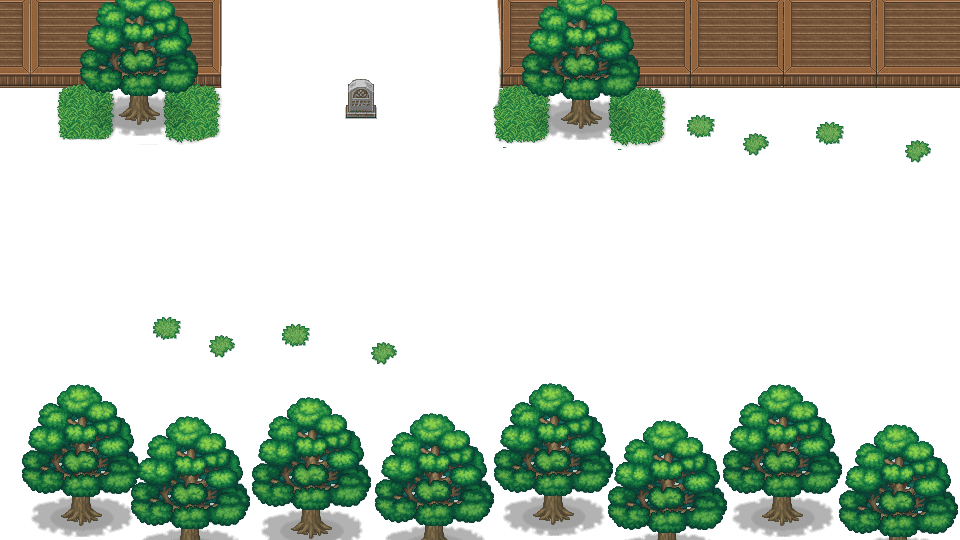
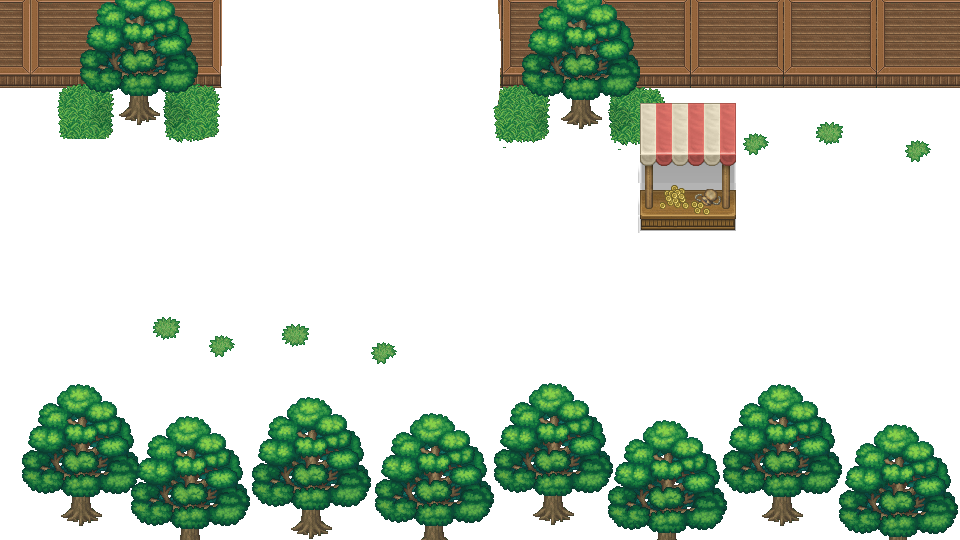
item sell shop OPEN

diff --git a/field.js b/field.js
@@ -20,6 +20,7 @@ var encount_down=0,encount_down_cnt=0;
 var nowShopData,eventShopSelectNum=0,showmoney=0,eventShopScrollNum=0,eventRecipeData=[];
 var checkSkillConflict=[],encountEnemyNum=0,inMsgBattleFlg=0,searchablelg=0;
 var creatingFieldFlg=0, itemRedrawFlg=1;
+var nowSalableItems=[],sellSelectNum=0,sellScrollNum=0,sellChildWindowAni=0,sellNum=0;
 const charamap=[3,1,0,2];//Imageオブジェクトのマッピング
 function getFieldCharaX(chara,dir,ani){return ((chara % 5)*32*3+ani*32+2);}
 function getFieldCharaY(chara,dir,ani){return (Math.floor(chara/5)*32*4+300+32*charamap[dir]+2);}
@@ -331,6 +332,14 @@ function setMaterials(){
         field2d.drawImage(itemMenuImg[nowMaterialData[myposworld][i][2]],nowMaterialData[myposworld][i][0],nowMaterialData[myposworld][i][1],material_size,material_size);
     }
 }
+function setSalableItems(){
+    nowSalableItems=[];
+    for(var i = 0;i<items.length;i++){
+        if(itemdata[items[i][0]][itemdata[items[i][0]].length-1] > 0){//売却可能なら
+            nowSalableItems.push(items[i]);
+        }
+    }
+}
 function encount_check(){//敵との遭遇率encount=6*((200−運)/200)
     if (mypic.length==0 || (debugMode && debugMode!=5) || warpAni || eventWindowAni) return 0;
     var encountRate = (6*((200 - mypicstock[mypic[0]][9],0,100,100),0,100/200));
@@ -586,6 +595,22 @@ function trigEvent(trigEventnum,trigEventObj){
             eventMessageWindow=1;
             eventMessageWindowMsg="レシピを持っていない！";
         }
+    } else if(trigEventnum==8 && !menuSelectFlg){ //売却のお店
+        zkeySE.play(); 
+        setSalableItems(items); //売却可能なアイテムをセット
+        if(!nowSalableItems.length){
+            eventWindowAni=0;
+            eventMessageWindow=1;
+            eventMessageWindowMsg="売却できるアイテムを持っていない！";
+        } else{
+            eventWindowKind=8;
+            eventWindowAni++;    
+            sellSelectNum=0;
+            sellScrollNum=0;
+            sellNum=1;
+            sellChildWindowAni=0;
+            showmoney=money;
+        }
     }
     menuSelectFlg=1;
 }
@@ -617,11 +642,13 @@ function fieldMain() {
     for(var i = 0;i < eventobj[myposworld].length;i++){
         if(eventobj[myposworld][i][4] == 1 || eventobj[myposworld][i][4] == 2||eventobj[myposworld][i][4] == 7){//マイピク整理等
             if(eventobj[myposworld][i][5]!=undefined) ctx2d.drawImage(arrowImgs[1],eventobj[myposworld][i][5],eventobj[myposworld][i][6]+((Math.floor(globalTime/8)%8<2) && 4*Math.abs(Math.sin(Math.PI*2*globalTime/32))),22,22);
-        } else if(eventobj[myposworld][i][4] == 3){//お店
+        } else if(eventobj[myposworld][i][4] == 3 || eventobj[myposworld][i][4] == 8){//お店
             if(eventobj[myposworld][i][6]!=undefined) ctx2d.drawImage(arrowImgs[1],eventobj[myposworld][i][6],eventobj[myposworld][i][7]+((Math.floor(globalTime/8)%8<2) && 4*Math.abs(Math.sin(Math.PI*2*globalTime/32))),22,22);
         } else if(eventobj[myposworld][i][4] == 6){//メッセージ
             if(eventobj[myposworld][i][8]!=undefined && !countItem(eventobj[myposworld][i][6])) ctx2d.drawImage(arrowImgs[1],eventobj[myposworld][i][8],eventobj[myposworld][i][9]+((Math.floor(globalTime/8)%8<2) && 4*Math.abs(Math.sin(Math.PI*2*globalTime/32))),22,22);
-        }
+        }else if(eventobj[myposworld][i][4] == 7){//売却お店
+            if(eventobj[myposworld][i][6]!=undefined) ctx2d.drawImage(arrowImgs[1],eventobj[myposworld][i][6],eventobj[myposworld][i][7]+((Math.floor(globalTime/8)%8<2) && 4*Math.abs(Math.sin(Math.PI*2*globalTime/32))),22,22);
+        } 
     }
     
     //ctx2d.drawImage(characanvas,pre_charasize*Math.floor(walkanimation/15),pre_charasize*walkdir,pre_charasize,pre_charasize,myposx,myposy,charasize,charasize); //キャラクターの描画
@@ -982,7 +1009,7 @@ function fieldMain() {
             } else if(eventProcreateStep==3){ //生まれた！
                 ctx2d.font="16pt " + mainfontName;
                 ctx2d.fillStyle="rgba(255,255,255,"+(1-Math.abs(eventWindowAni-menuWindowAniSpeed)/menuWindowAniSpeed)*Math.min(1,eventEggAni/20)*Math.min(1,eventEggAni/20)*(Math.sin(globalTime/10)*0.3+0.7)+")";
-                ctx2d.fillText((drawMypicTempName + "がうまれた！　"+procreateMsg).substr(0,eventEggAni/3),width/2-225,height/2-125);
+                ctx2d.fillText((drawMypicTempName + "がうまれた！"+procreateMsg).substr(0,eventEggAni/3),width/2-225,height/2-125);
                 ctx2d.fillStyle="rgba(255,255,255,"+(1-Math.abs(eventWindowAni-menuWindowAniSpeed)/menuWindowAniSpeed)*Math.min(1,eventEggAni/20)*Math.min(1,eventEggAni/20)+")";
                 ctx2d.font="11pt " + mainfontName;
                 ctx2d.fillText("さいだいHP: " + mypicstock[mypicstock.length-1][3],width/2-230,height/2+113);
@@ -1158,6 +1185,103 @@ function fieldMain() {
                 menuSelectFlg=1;
                 xkeySE.play();
             }
+        }else if(eventWindowKind==8){ //売り払う
+            ctx2d.fillStyle="rgba(0,0,0," +(1- Math.abs(eventWindowAni-menuWindowAniSpeed)/menuWindowAniSpeed)*0.8 + ")";
+            ctx2d.fillRect(width/2-300,height/2-155,600,300);
+            ctx2d.fillStyle="rgba(255,255,255," +(1- Math.abs(eventWindowAni-menuWindowAniSpeed)/menuWindowAniSpeed) + ")";
+            ctx2d.font="18pt " + mainfontName;
+            ctx2d.fillText("ばいきゃく" , width/2-300+15,height/2-150+30);
+            ctx2d.font="12pt " + mainfontName;
+            for(var i = 0;i < Math.min(10,nowSalableItems.length-sellScrollNum);i++){
+                ctx2d.fillStyle="rgba(105,105,105," +(1- Math.abs(eventWindowAni-menuWindowAniSpeed)/menuWindowAniSpeed) + ")";
+                if(i+sellScrollNum== sellSelectNum) ctx2d.fillStyle="rgba(255,255,255," +(0.3*Math.sin(globalTime/8)+0.7*(1- Math.abs(eventWindowAni-menuWindowAniSpeed)/menuWindowAniSpeed)) + ")";
+                ctx2d.drawImage(itemMenuImg[nowSalableItems[i+sellScrollNum][0]],width/2-300+40,height/2-90-10+i*20,15,15);
+                ctx2d.fillText(itemdata[nowSalableItems[i+sellScrollNum][0]][0] , width/2-300+60,height/2-90+i*20);
+                ctx2d.fillText("×" , width/2-300+280,height/2-90+i*20);
+                ctx2d.fillText(nowSalableItems[i+sellScrollNum][1] , width/2-300+320,height/2-90+i*20);
+                ctx2d.fillText(itemdata[nowSalableItems[i+sellScrollNum][0]][5] , width/2-300+450,height/2-90+i*20);
+                ctx2d.fillText("(" , width/2-300+400,height/2-90+i*20);
+                ctx2d.fillText(currencyName + " )" , width/2-300+500,height/2-90+i*20);
+            }
+            ctx2d.fillStyle="rgba(255,255,255," +(1- Math.abs(eventWindowAni-menuWindowAniSpeed)/menuWindowAniSpeed) + ")";
+            ctx2d.font="10pt " + mainfontName;
+            ctx2d.fillText(itemdata[nowSalableItems[sellSelectNum][0]][3].substr(0,26) ,width/2-300+40,height/2-90+10.5*20-5);
+            ctx2d.fillText(itemdata[nowSalableItems[sellSelectNum][0]][3].substr(26,26) ,width/2-300+40,height/2-90+11.5*20-10);
+            ctx2d.fillText("おかね",width/2+100,height/2-90+10.5*20-5);
+            ctx2d.font="12pt " + mainfontName;
+            ctx2d.fillRect(width/2+90,height/2-90+10.5*20-15,1,30);
+            ctx2d.fillText(showmoney + currencyName ,width/2+120,height/2-90+11.5*20-8);
+            if(sellChildWindowAni){ //売却ウィンドウ表示時
+                ctx2d.fillStyle="rgba(0,0,0," +(1- Math.abs(sellChildWindowAni-menuWindowAniSpeed)/menuWindowAniSpeed)*0.8 + ")";
+                ctx2d.fillRect(width/2-150,height/2-50,300,100);
+                ctx2d.font="14pt " + mainfontName;
+                ctx2d.fillStyle="rgba(255,255,255," +(1- Math.abs(sellChildWindowAni-menuWindowAniSpeed)/menuWindowAniSpeed) + ")";
+                ctx2d.fillText("いくつ売る？",width/2-135,height/2-25);
+                ctx2d.font="12pt " + mainfontName;
+                ctx2d.fillText(itemdata[nowSalableItems[sellSelectNum][0]][0] ,width/2-45,height/2+5);
+                ctx2d.drawImage(itemMenuImg[nowSalableItems[sellSelectNum][0]],width/2-80,height/2-13,25,25);
+                ctx2d.fillText("所持数："+nowSalableItems[sellSelectNum][1] ,width/2+40,height/2-25);
+                ctx2d.fillText(itemdata[nowSalableItems[sellSelectNum][0]][5]*sellNum ,width/2-45,height/2+30);    
+                ctx2d.fillText(currencyName ,width/2+10,height/2+30);
+                ctx2d.font="8pt " + mainfontName;
+                ctx2d.fillStyle="rgba(255,255,255," +(1- Math.abs(sellChildWindowAni-menuWindowAniSpeed)/menuWindowAniSpeed) + ")";
+                if(sellNum==nowSalableItems[sellSelectNum][1]) ctx2d.fillStyle="rgba(105,105,105," +(1- Math.abs(sellChildWindowAni-menuWindowAniSpeed)/menuWindowAniSpeed) + ")"; 
+                ctx2d.fillText("∧" ,width/2-120+5,height/2+0);
+                ctx2d.fillStyle="rgba(255,255,255," +(1- Math.abs(sellChildWindowAni-menuWindowAniSpeed)/menuWindowAniSpeed) + ")";
+                if(sellNum==1) ctx2d.fillStyle="rgba(105,105,105," +(1- Math.abs(sellChildWindowAni-menuWindowAniSpeed)/menuWindowAniSpeed) + ")"; 
+                ctx2d.fillText("∨" ,width/2-120+5,height/2+40);
+                ctx2d.font="16pt " + mainfontName;
+                ctx2d.fillStyle="rgba(255,255,255," +(0.3*Math.sin(globalTime/8)+0.7)*(1- Math.abs(sellChildWindowAni-menuWindowAniSpeed)/menuWindowAniSpeed) + ")";
+                ctx2d.fillText(sellNum ,width/2-120+10-ctx2d.measureText(sellNum).width/2,height/2+23);
+                if(upkey && !menuSelectFlg) {
+                    if(sellNum!=nowSalableItems[sellSelectNum][1]) crosskeySE.play();
+                    sellNum=Math.min(nowSalableItems[sellSelectNum][1],sellNum+1),menuSelectFlg=1;
+                }
+                if(downkey && !menuSelectFlg) {
+                    if(sellNum!=1) crosskeySE.play();
+                    sellNum=Math.max(1,sellNum-1),menuSelectFlg=1;
+                }
+                if(zkey && !menuSelectFlg){
+                    //売却処理
+                    let sellSelectNumFlg=0;
+                    if(sellNum==nowSalableItems[sellSelectNum][1]) sellSelectNumFlg=1;
+                    paySE.play();
+                    money+=itemdata[nowSalableItems[sellSelectNum][0]][5]*sellNum;
+                    let sellItemNum=0;
+                    for(var i = 0;i < items.length;i++){
+                        if(items[i][0] == nowSalableItems[sellSelectNum][0]) sellItemNum=i;
+                    }
+                    for(var i = 0;i < sellNum;i++) consumeItem(sellItemNum);
+                    setSalableItems();
+                    sellChildWindowAni++;
+                    menuSelectFlg=1;
+                    if(!nowSalableItems.length) {
+                        eventMessageWindow=1;
+                        eventMessageWindowMsg="売却できるアイテムを持っていない！";
+                        eventWindowAni=0;
+                    }
+                    if(sellSelectNumFlg)sellSelectNum=Math.max(sellSelectNum-1,0),sellChildWindowAni=0;
+                }
+                if(xkey && !menuSelectFlg) sellChildWindowAni++,menuSelectFlg=1,xkeySE.play();
+            } else{ //売却ウィンドウ非表示時
+                if(upkey && !menuSelectFlg) sellSelectNum=Math.max(0,sellSelectNum-1),menuSelectFlg=1,crosskeySE.play();
+                if(downkey && !menuSelectFlg) sellSelectNum=Math.min(nowSalableItems.length-1,sellSelectNum+1),menuSelectFlg=1,crosskeySE.play();
+                if(zkey && !menuSelectFlg){ //アイテムの決定
+                    sellChildWindowAni++;
+                    sellNum=1;
+                    menuSelectFlg=1;
+                    zkeySE.play();
+                }
+                if(sellSelectNum>=sellScrollNum+10) sellScrollNum=sellSelectNum-9;
+                if(sellSelectNum<sellScrollNum) sellScrollNum=sellSelectNum;
+                if(xkey && !(eventWindowAni-menuWindowAniSpeed)&& !menuSelectFlg && !eventMessageWindow) eventWindowAni++,menuSelectFlg=1,xkeySE.play();
+            }                
+            if(sellChildWindowAni && (sellChildWindowAni-menuWindowAniSpeed)) sellChildWindowAni++;
+            if(sellChildWindowAni>=menuWindowAniSpeed*2) sellChildWindowAni=0;
+            if(money < showmoney) showmoney-=10;
+            if (money > showmoney) showmoney+=10;
+            if (Math.abs(showmoney-money)<10) showmoney=money;
+            if(spacekey) menuSelectFlg=0;
         }
         if (!upkey && !downkey && !zkey && !leftkey && !rightkey && !xkey && !zkey && !vkey) menuSelectFlg=0;
         if (eventWindowAni && (eventWindowAni-menuWindowAniSpeed)) eventWindowAni++;

diff --git a/index.html b/index.html
@@ -31,14 +31,15 @@
       </p>
     </div>
     <div class="mybox">
+      2022.01.04　アイテム売却のお店を追加しました。WEBサイト等の細かなバグを修正しました。<br>
       2021.12.31　完成版の一般公開を行いました。<br>
       2021.12.12　部内ハッカソンにてβ版の公開を行いました。
     </div>
     <h1 class="kakomi-triple1">作品について</h1>
     <div class="bo">
       本作品は、東京工業大学デジタル創作同好会traPの2021年冬部内ハッカソン(1週間の超短期開発)応募作品です。<br>
-      開発日記は<a href="https://trap.jp/post/1478/">こちら</a>から。プロモーションムービーは<a href="https://www.youtube.com/watch?v=Vd37_-uKh5M">こちら</a>からご覧ください。<br>
-      ゲームに関するご意見やご感想、バグの報告などがありましたら、<a href="https://docs.google.com/forms/d/e/1FAIpQLScu0OJtYh97RZlC56mXvIwC7iejDwJuTM7WWT5XL2ge9vMf-g/viewform?usp=pp_url">こちらのGoogleフォーム</a>よりご報告ください。
+      開発日記は<a href="https://trap.jp/post/1478/" target="_blank" rel="noopener noreferrer">こちら</a>から。プロモーションムービーは<a href="https://www.youtube.com/watch?v=Vd37_-uKh5M" target="_blank" rel="noopener noreferrer">こちら</a>からご覧ください。<br>
+      ゲームに関するご意見やご感想、バグの報告などがありましたら、<a href="https://docs.google.com/forms/d/e/1FAIpQLScu0OJtYh97RZlC56mXvIwC7iejDwJuTM7WWT5XL2ge9vMf-g/viewform?usp=pp_url" target="_blank" rel="noopener noreferrer">こちらのGoogleフォーム</a>よりご報告ください。
     </div>  
     <h1 class="kakomi-triple1">クレジット</h1>
     <div class="bo">
